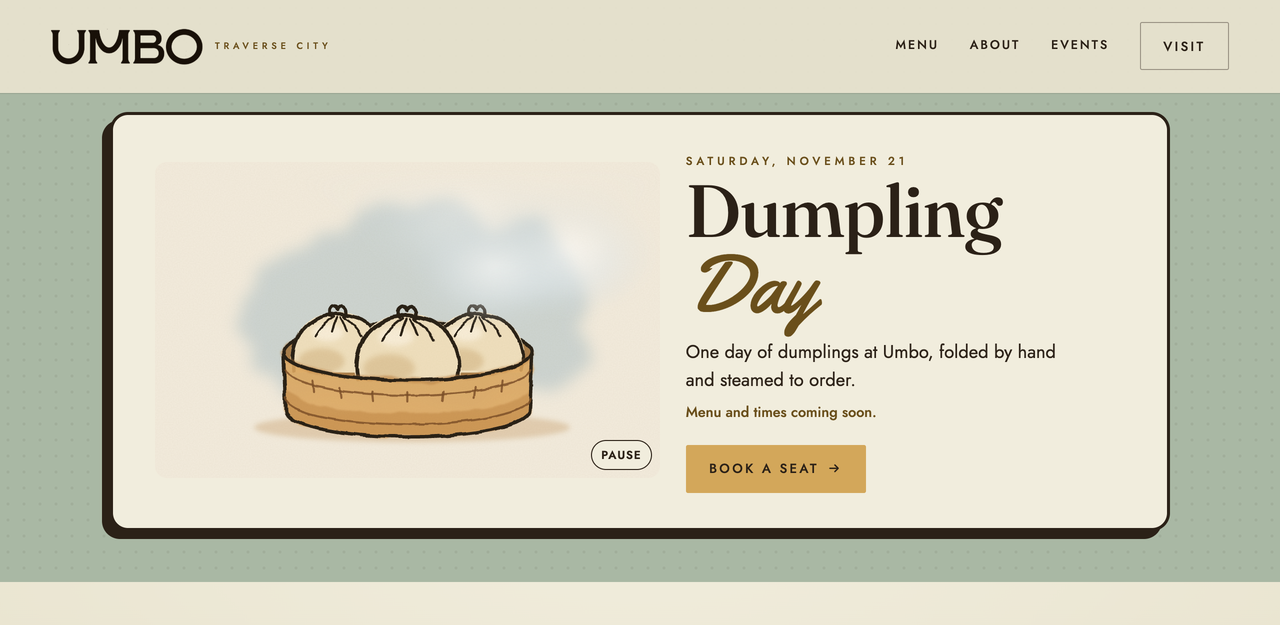
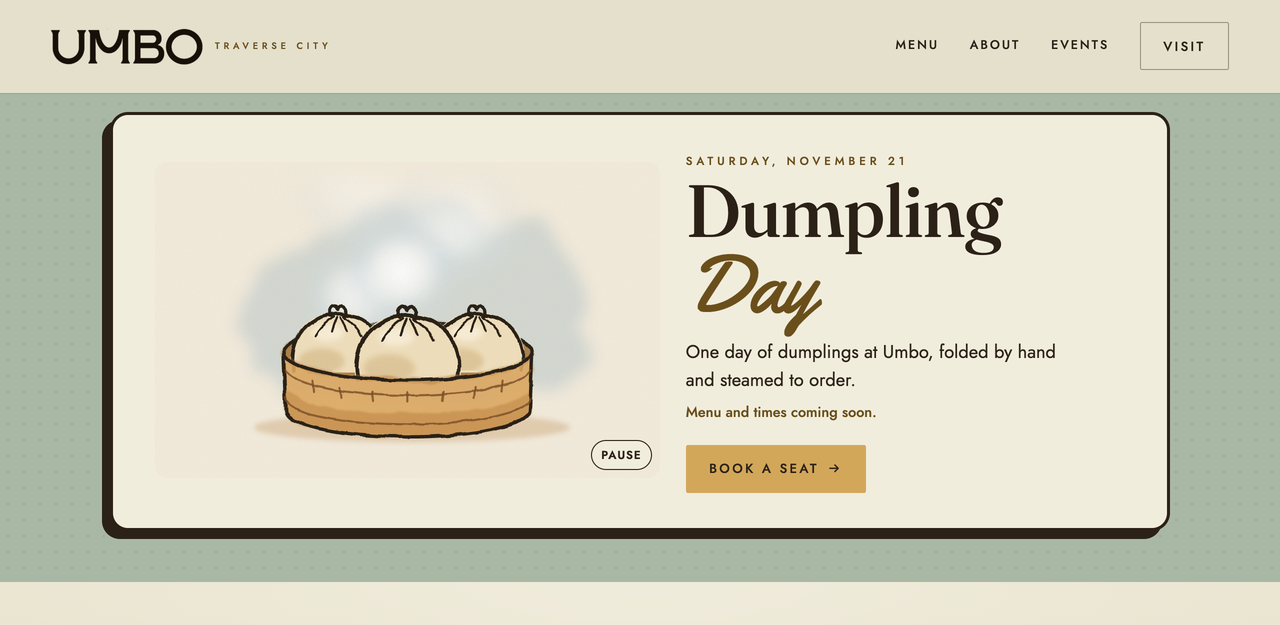
feat: hinge the steamer lid open and raise steam from behind the buns
The lid now swings open on its right rim like a clamshell and is carried
up and off to the right in one continuous move, with no pause. The art is
split into back and front layers with the mist between them, so the steam
rises from behind the dumplings on a loop.

Also fixes the wisp positioning: GSAP discarded the CSS translate
property and kept the still frame's offsets, which pushed the steam right
of center. The wisps are now centered with left/top, and the timeline
clears the still-frame offsets.

Changed region(s): [[0.25, 0.3952, 0.3438, 0.5168], [0.3438, 0.4864, 0.4062, 0.5168]]

diff --git a/assets/css/promo.css b/assets/css/promo.css
@@ -2,7 +2,7 @@
    EVENT PROMO: Dumpling Day, Saturday 11/21/2026 (mockup for Sarah).
    A parchment card on a sage band with a small watercolor scene: brush-ink
    lines, soft washes, paper grain. The card slides in on load (CSS only); then
-   the steamer lid lifts away and mist drifts up over three dumplings
+   the steamer lid hinges open like a clamshell and is carried off, and steam rises from behind three dumplings
    (assets/js/promo-dumplings.js). With reduced motion or no JS the scene holds
    one still frame: lid off, a few wisps of mist.
    Hidden from midnight ET on 11/21 (11/22 00:00) by the promo-over class.
@@ -59,7 +59,7 @@
 /* Watercolor drawing language: washes with wobbly, pooled edges, brush-ink lines over them. */
 .dd-art .dd-paper-base { fill: var(--dd-paper); }
 .dd-art .dd-paper { mix-blend-mode: multiply; }
-.dd-art .dd-cloud { fill: var(--dd-cloud); opacity: .5; }
+.dd-art .dd-cloud { fill: var(--dd-cloud); opacity: .42; }
 .dd-art .dd-ground { fill: var(--dd-ochre-lo); opacity: .28; }
 .dd-art .dd-w-inside { fill: var(--dd-inside); opacity: .85; }
 .dd-art .dd-w-inside-lo { fill: #8E5E2A; opacity: .5; }
@@ -75,12 +75,15 @@
 .dd-inkline .dd-thin { stroke-width: 2; }
 .dd-inkline .dd-brown { stroke: var(--dd-ink-brown); opacity: .8; }
 
-/* Mist: soft gradient blobs, moved by transform and opacity only. Fades out toward the top of the scene. */
-.dd-mist { position: absolute; inset: 0; pointer-events: none; -webkit-mask-image: linear-gradient(transparent 2%, #000 42%); mask-image: linear-gradient(transparent 2%, #000 42%); }
+/* Mist: soft gradient blobs, moved by transform and opacity only. It sits between the back and front art layers,
+   so each wisp starts behind the dumplings and rises clear of them. Fades out toward the top of the scene. */
+.dd-mist { position: absolute; inset: 0; pointer-events: none; -webkit-mask-image: linear-gradient(transparent, #000 28%); mask-image: linear-gradient(transparent, #000 28%); }
 .dd-mist span {
-  position: absolute; left: var(--x, 50%); top: 33%; width: 40%; aspect-ratio: 1.35; translate: -50% -50%; border-radius: 50%;
-  background: radial-gradient(closest-side, rgba(255, 255, 255, .97), rgba(226, 233, 236, .7) 50%, rgba(214, 224, 229, .25) 78%, rgba(214, 224, 229, 0));
-  filter: blur(4px); opacity: 0; will-change: transform, opacity;
+  /* Centered on (--x, 54%) with left/top offsets, not the translate property, which GSAP would discard.
+     Half the width is 15%; half the height is 22.9% of the 480 x 300 stage. */
+  position: absolute; left: calc(var(--x, 50%) - 15%); top: 31.1%; width: 30%; aspect-ratio: 1.05; border-radius: 50%;
+  background: radial-gradient(closest-side, #fff, rgba(250, 251, 250, .8) 35%, rgba(214, 225, 231, .4) 70%, rgba(214, 225, 231, 0));
+  filter: blur(5px); opacity: 0; will-change: transform, opacity;
 }
 .dd-mist span:nth-child(1) { --x: 40%; } .dd-mist span:nth-child(2) { --x: 56%; } .dd-mist span:nth-child(3) { --x: 48%; }
 .dd-mist span:nth-child(4) { --x: 62%; } .dd-mist span:nth-child(5) { --x: 36%; } .dd-mist span:nth-child(6) { --x: 52%; }
@@ -88,9 +91,9 @@
 
 /* Still frame (reduced motion, no JS, before the script starts): lid off, three wisps hanging over the steamer. */
 .dd-lid { opacity: 0; visibility: hidden; }
-.dd-mist span:nth-child(1) { opacity: .55; transform: translate(0, -18%) scale(.9); }
-.dd-mist span:nth-child(2) { opacity: .45; transform: translate(0, -62%) scale(1.25); }
-.dd-mist span:nth-child(3) { opacity: .3; transform: translate(0, -110%) scale(1.6); }
+.dd-mist span:nth-child(1) { opacity: .55; transform: translate(0, -55%) scale(.9); }
+.dd-mist span:nth-child(2) { opacity: .45; transform: translate(0, -105%) scale(1.25); }
+.dd-mist span:nth-child(3) { opacity: .3; transform: translate(0, -160%) scale(1.6); }
 
 /* The header floats over the hero; give it a solid ground while the promo sits under it. */
 html:not(.promo-over) body.has-promo-board .site-header { background: color-mix(in srgb, var(--cream) 94%, transparent); box-shadow: 0 1px 0 color-mix(in srgb, var(--oxblood) 12%, transparent); }

diff --git a/assets/js/promo-dumplings.js b/assets/js/promo-dumplings.js
@@ -1,7 +1,7 @@
 /* Dumpling Day promo (11/21/2026): the watercolor steamer in the home-page banner.
-   Once, on load: the lid eases up, hangs a moment, then drifts away. Then mist rises slowly over the
-   three dumplings, on a loop. Only the lid layer and the mist blobs move (transform and opacity),
-   so the painted, filtered artwork underneath is drawn once.
+   Once, on load: the lid hinges open on its right rim like a clamshell and, without stopping, is carried up
+   and off to the right. Steam then rises from behind the three dumplings, on a loop. Only the lid layer and
+   the mist blobs move (transform and opacity), so the painted, filtered artwork is drawn once.
    Needs GSAP (loaded from cdnjs just before this file). With reduced motion, no JS or no GSAP,
    the scene keeps its still frame from promo.css (lid off, a few wisps). */
 (function () {
@@ -18,26 +18,29 @@
     var LIFT = 1.4;   // when the lid starts to rise (the card has slid in by then)
     var CYCLE = 9;    // seconds for one wisp to rise and fade; wisps are spread evenly across it
 
-    gsap.set(lid, { autoAlpha: 1, x: 0, y: 0, rotation: 0, transformOrigin: '50% 45%' });
-    gsap.set(wisps, { autoAlpha: 0 });
+    // Hinge point: the right end of the lid's rim (362, 180 in the 480 x 300 scene).
+    gsap.set(lid, { autoAlpha: 1, x: 0, y: 0, rotation: 0, transformOrigin: '75.4% 60%' });
+    gsap.set(wisps, { autoAlpha: 0, x: 0, y: 0, scale: .5 });  // drop the still frame's offsets
 
+    // Two overlapping tweens on different properties: the hinge swing is already under way when the carry
+    // starts, and the carry is still accelerating when the swing settles, so the lid never stops.
     var tl = gsap.timeline();
-    tl.to(lid, { yPercent: -7, rotation: -1.5, duration: 1.8, ease: 'sine.inOut' }, LIFT)
-      .to(lid, { yPercent: -125, xPercent: 30, rotation: 7, duration: 3.4, ease: 'power1.in' }, LIFT + 2.1)
-      .set(lid, { autoAlpha: 0 }, LIFT + 5.5);
+    tl.to(lid, { rotation: 30, duration: 2.2, ease: 'power2.inOut' }, LIFT)
+      .to(lid, { xPercent: 62, yPercent: -120, duration: 2.6, ease: 'power2.in' }, LIFT + .9)
+      .set(lid, { autoAlpha: 0 }, LIFT + 3.5);
 
     // Mist: each wisp swells as it climbs, sways a little, and thins out to nothing.
     var mist = gsap.timeline({ paused: true });
     wisps.forEach(function (w, i) {
       var sway = (i % 2 ? 1 : -1) * gsap.utils.random(8, 22);
       var at = i * CYCLE / wisps.length;
-      mist.set(w, { yPercent: 10, xPercent: 0, scale: .45, autoAlpha: 0 }, at).to(w,
-        { keyframes: { yPercent: [10, -60, -140, -230], xPercent: [0, sway * .4, sway, sway * .6], scale: [.45, .9, 1.35, 1.8], autoAlpha: [0, .85, .6, 0], easeEach: 'sine.inOut' },
+      mist.set(w, { yPercent: 20, xPercent: 0, scale: .5, autoAlpha: 0 }, at).to(w,
+        { keyframes: { yPercent: [20, -40, -110, -190, -290], xPercent: [0, sway * .2, sway * .6, sway, sway * .7], scale: [.5, .8, 1.1, 1.4, 1.8], autoAlpha: [0, 1, .9, .55, 0], easeEach: 'sine.inOut' },
           duration: CYCLE, ease: 'none', repeat: -1 }, at);
     });
-    // Start the mist as the lid breaks the seal, already mid-cycle so it does not arrive as one puff.
+    // Start the mist as the lid cracks open, already mid-cycle so it does not arrive as one puff.
     var misting = false;
-    tl.call(function () { misting = true; mist.play(CYCLE * .35); }, null, LIFT + .6);
+    tl.call(function () { misting = true; mist.play(CYCLE * .35); }, null, LIFT + .4);
 
     // Pause control (WCAG 2.2.2), and no work while the banner is off screen.
     var userPaused = false, inView = true;

diff --git a/index.html b/index.html
@@ -65,8 +65,9 @@
 <section class="dd" data-promo aria-labelledby="dd-title">
   <div class="dd__frame">
     <div class="dd__stage">
-      <!-- Watercolor scene, three layers: the painted steamer (static, filtered once), the lid (moves as one
-           composited layer) and the mist (soft gradient blobs, transform + opacity only). -->
+      <!-- Watercolor scene in layers: the painted back of the steamer, the mist (soft gradient blobs, transform +
+           opacity only) so steam rises from behind the dumplings, the dumplings and front wall, then the lid
+           (moves as one composited layer). The painted layers are static and filtered once. -->
       <svg class="dd-art" viewBox="0 0 480 300" role="img" aria-labelledby="dd-art-title">
         <title id="dd-art-title">A watercolor bamboo steamer with its lid lifted away, three plump soup dumplings inside as steam drifts up.</title>
         <defs>
@@ -105,6 +106,11 @@
 
         <!-- back rim sits behind the dumplings; the front rim is drawn over them below -->
         <g class="dd-inkline" filter="url(#dd-ink)"><path d="M122 180A118 27 0 0 1 358 180"/></g>
+      </svg>
+
+      <div class="dd-mist" aria-hidden="true"><span></span><span></span><span></span><span></span><span></span><span></span><span></span><span></span><span></span></div>
+
+      <svg class="dd-art dd-art--front" viewBox="0 0 480 300" aria-hidden="true">
 
         <g class="dd-bao" transform="translate(174 198)">
           <path class="dd-bao-fill" d="M-42 0C-48-24-34-50-6-53Q0-55 6-53C34-50 48-24 42 0Z"/>
@@ -167,7 +173,6 @@
         </g>
       </svg>
 
-      <div class="dd-mist" aria-hidden="true"><span></span><span></span><span></span><span></span><span></span><span></span><span></span><span></span><span></span></div>
       <button class="dd__toggle" type="button" aria-pressed="false" hidden>Pause</button>
     </div>
     <div class="dd__copy">
